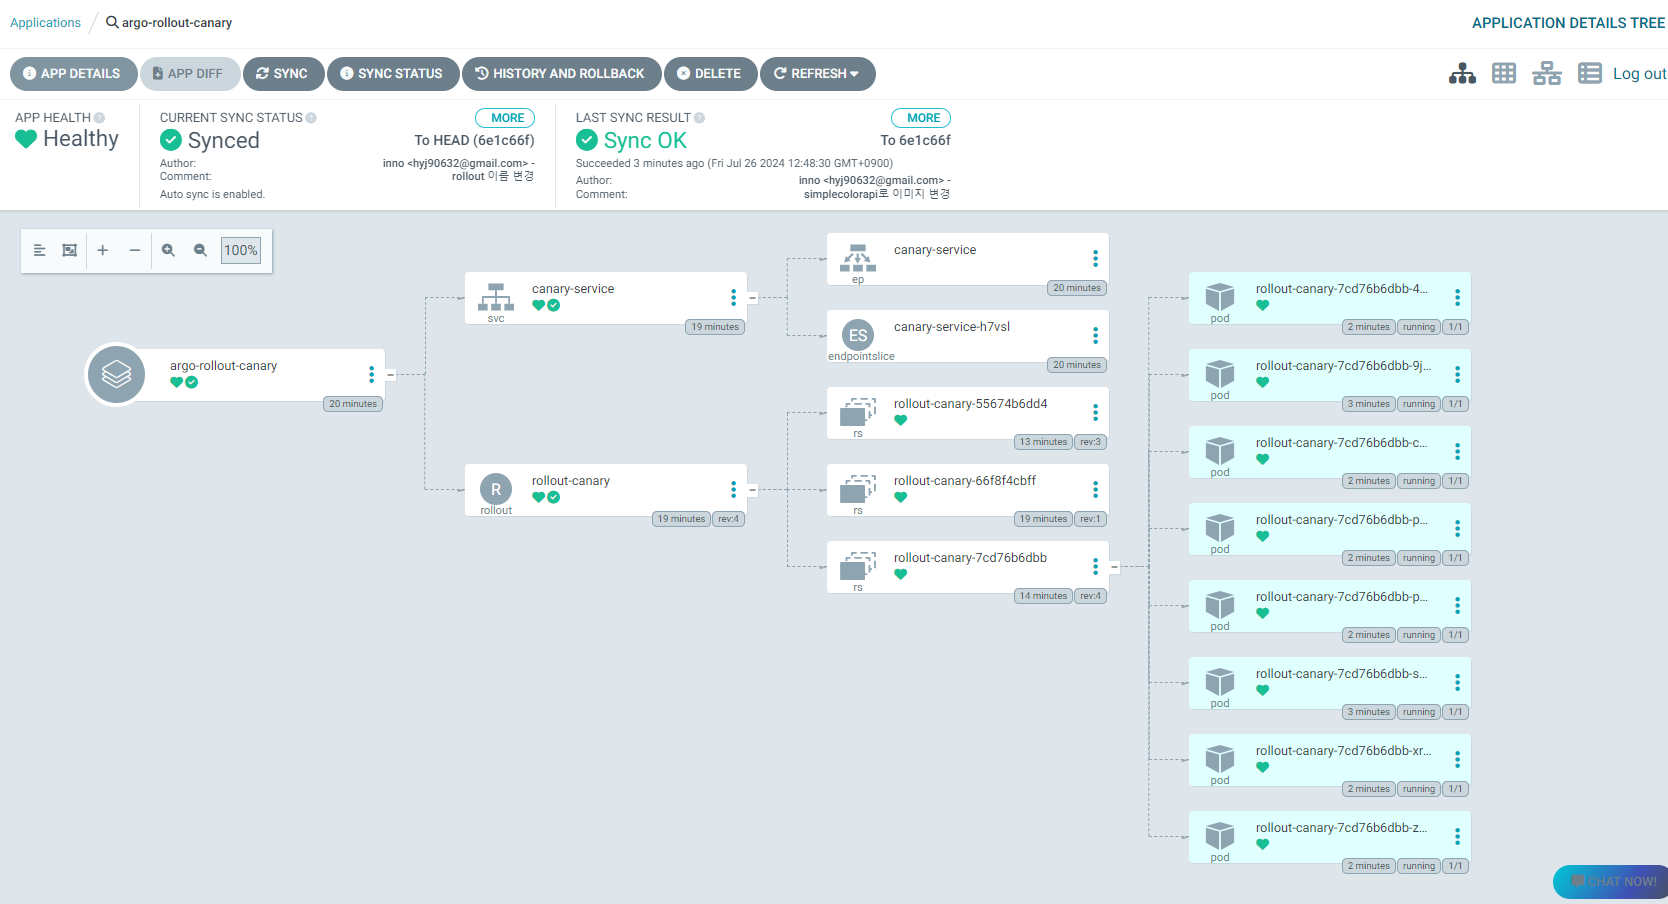
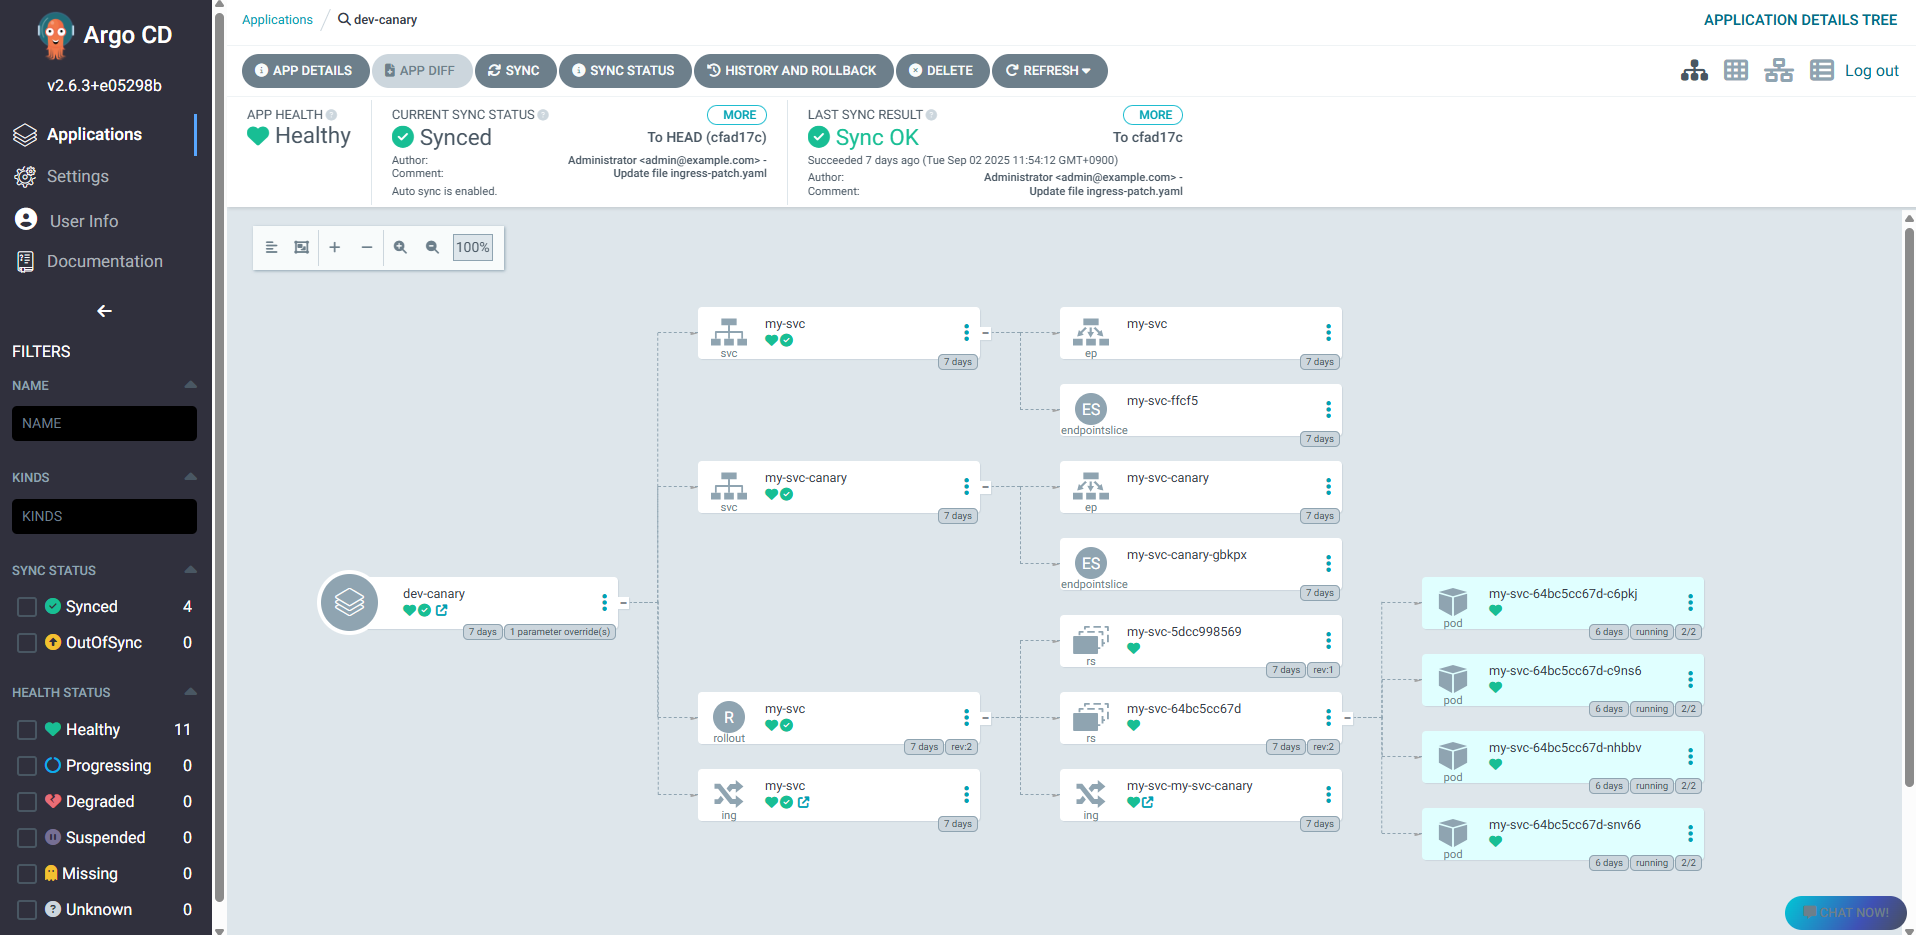
canary 배포 수정본 적용

diff --git a/_posts/ArgoCD/2024-07-26-[ArgoCD] - ArgoCD Carany 배포.md b/_posts/ArgoCD/2024-07-26-[ArgoCD] - ArgoCD Carany 배포.md
@@ -14,89 +14,200 @@ image: /assets/img/post-title/argocd-wallpaper.jpg
 * * *
 
 ## rollout App 배포방법 :
+### rollout 생성하기:
 
 ```yaml
 # rollout.yaml
 apiVersion: argoproj.io/v1alpha1
-kind: Rollout # Rollout으로 생성
+kind: Rollout
 metadata:
-  name: canary-rollout
-  namespace: argo-rollouts
+  name: my-svc
 spec:
-  replicas: 8
-  revisionHistoryLimit: 2 # 보관할 이전 버전의 최대 수
+  replicas: 4
+  revisionHistoryLimit: 3
+  progressDeadlineSeconds: 600
+  strategy:
+    canary:
+      maxSurge: 25%
+      maxUnavailable: 0
+      stableService: my-svc
+      canaryService: my-svc-canary
+      trafficRouting:
+        nginx:
+          stableIngress: my-svc     # base/ingress.yaml 의 Ingress 이름과 동일
+      steps:
+        - setWeight: 10             # 새 버전이 10% 트랙픽 받음
+        - pause: { duration: 120 }  # 2분 관찰 후 자동 진행
+        - setWeight: 30             # 새 버전이 30% 트랙픽 받음
+        - pause: { duration: 180 }  # 3분 관찰
+        - setWeight: 60             # 새 버전이 60% 트랙픽 받음
+        - pause: { duration: 300 }  # 5분 관찰
+        # 마지막 스텝이 끝나면 자동으로 100%로 승격됨(별도 promote 필요 없음)
   selector:
     matchLabels:
-      app: canary
+      app: my-svc
   template:
     metadata:
       labels:
-        app: canary
+        app: my-svc
     spec:
       containers:
-      - name: canary-rollouts-demo
-        image: harbor.com/argo-rollout/particule/simplecolorapi:3.0
-        imagePullPolicy: Always
-        ports:
-        - containerPort: 5000
-  strategy:
-    canary: # Canary 배포 전략을 사용할 것임을 지정
-      maxSurge: "25%"    # canary 배포로 생성할 pod의 비율
-      maxUnavailable: 0  # 업데이트 될 때 사용할 수 없는 pod의 최대 수
-      steps:
-      - setWeight: 25    # 카나리로 배포된 서버로 전송해야될 트래픽 비율
-      - pause: {}        # AutoPromotion Time
+        - name: app
+          # 태그는 overlays/kustomization.yaml의 images.newTag에서 관리(Image Updater write-back)
+          image: harbor.test.com/util/custom-nginx
+          ports:
+            - name: http
+              containerPort: 80
 ```
 
 * * *
 
-## Service 생성하기 :
+### Service 생성하기 :
 - 새 버전과 기존 버전의 애플리케이션 간의 트래픽을 효율적으로 라우팅하고 관리하기 위해 서비스를 생성한다.
 
 ```yaml
-# service-active.yaml
-kind: Service
+# service-stable.yaml
 apiVersion: v1
+kind: Service
 metadata:
-  name: canary-service
-  namespace: argo-rollouts
+  name: my-svc
 spec:
   selector:
-    app: canary
+    app: my-svc
   ports:
-  - protocol: TCP
-    port: 80
-    targetPort: 5000
-    nodePort: 30083
-  type: NodePort
+    - port: 80
+      targetPort: http
+```
+
+```yaml
+# service-canary.yaml
+apiVersion: v1
+kind: Service
+metadata:
+  name: my-svc-canary
+spec:
+  selector:
+    app: my-svc
+  ports:
+    - port: 80
+      targetPort: http
+```
+
+> svc-stable: 운영 중인 안정 버전
+> 
+> svc-canary: 새 버전 테스트용
+> 
+> 둘로 나눠야 Argo Rollouts가 퍼센트 기반 트래픽 분할 + 모니터링 + 롤백을 제대로 할 수 있음
+{: .prompt-info}
+
+* * *
+
+### Ingress 생성하기 : 
+
+```yaml
+apiVersion: networking.k8s.io/v1
+kind: Ingress
+metadata:
+  name: my-svc
+  annotations:
+    kubernetes.io/ingress.class: nginx
+spec:
+  rules:
+    - host: placeholder.test.com
+      http:
+        paths:
+          - path: /
+            pathType: Prefix
+            backend:
+              service:
+                name: my-svc
+                port:
+                  number: 80
 ```
 
 * * *
 
-## Gitlab repo에 파일 커밋하기 :
-- 생성한 파일들을 girlab repo의 커밋하면, webhook을 통해 파일 변경을 전달받은 argocd에서 자동으로 배포하는 것을 확인한다.
+### kustomization 생성하기 :
+
+```yaml
+# kustomization.yaml
+apiVersion: kustomize.config.k8s.io/v1beta1
+kind: Kustomization
+resources:
+  - rollout.yaml
+  - svc-stable.yaml
+  - svc-canary.yaml
+  - ingress.yaml
+images:
+  - name: harbor.test.com/util/custom-nginx
+    newTag: 1.0.19 # Nginx 버전
+```
+
+> kustomization.yaml이란?
+> 
+> Kubernetes 리소스를 모아주고, 공통 설정을 적용하고, 환경별 Overlay까지 지원하는 배포 단위 정의서
+{: .prompt-info}
+
+* * *
+
+### Gitlab repo에 파일 커밋하기 :
+- 생성한 파일들을 gitlab repo의 커밋하면, webhook을 통해 파일 변경을 전달받은 argocd에서 자동으로 배포하는 것을 확인한다.
 ![argo rollout Canary 배포 동작 확인](/assets/img/post/ArgoCD/argo%20rollout%20carany%20배포%20동작%20확인.png)
 
 * * *
 
-## Canary 배포한 Pod 및 Service 확인하기 :
+### Canary 배포한 Pod 및 Service 확인하기 :
 - 서버에서 생성한 Pod와 Service 목록을 확인한다.
 
 ```bash
-$ kubectl get pod -n argo-rollouts
-$ kubectl get svc -n argo-rollouts
+$ kubectl get pod -n [namespace명]
+$ kubectl get svc -n [namespace명]
 ```
 ![argo rollout Canary service 확인](/assets/img/post/ArgoCD/argo%20rollout%20carany%20service%20확인.png)
 
 * * *
 
-## 수동 승격 방법 :
-- Argo Rollouts의 블루-그린 전략을 사용하여 autoPromotionEnabled를 false로 설정한 경우, 수동으로 새 버전의 애플리케이션을 활성화하는 과정으로 수동 승격을 수행하는 방법은 아래와 같다.
+## 배포 확인하기 :
+### 배포 매니페스트 환경별 패치 파일 생성하기 :
 
-```bash
-$ kubectl argo rollouts promote {rollout명} -n {namespace명}
+- 이 Kustomization은 base 리소스를 가져와 dev-int 네임스페이스에 배포하고, Ingress 설정만 환경에 맞게 수정하는 오버레이 설정한다.
+
+```yaml
+apiVersion: kustomize.config.k8s.io/v1beta1
+kind: Kustomization
+namespace: dev-int
+resources:
+  - ../../base
+patchesStrategicMerge:
+  - ingress-patch.yaml
 ```
 
-![Canary 수동 승격 후 화면](/assets/img/post/ArgoCD/carany%20수동%20승격%20후%20화면.png)
+```yaml
+# ingress-patch.yaml
+apiVersion: networking.k8s.io/v1
+kind: Ingress
+metadata:
+  name: my-svc
+spec:
+  rules:
+    - host: web.dev-test.com # 프로젝트를 분리할 경우 각 폴더별 ingress 파일 생성하여 도메인 주소 변경 필요
+      http:
+        paths:
+          - path: /
+            pathType: Prefix
+            backend:
+              service:
+                name: my-svc
+                port:
+                  number: 80
+```
+
+* * *
+
+### 웹페이지 확인하기 :
+
+- 아래 그림과 같이 배포되어 정상 접속 되는것을 확인한다.
+
+![argo rollout canary 배포 후 웹 접속](/assets/img/post/ArgoCD/argo%20rollout%20canary%20배포%20후%20웹%20접속.png)
 
 * * *
